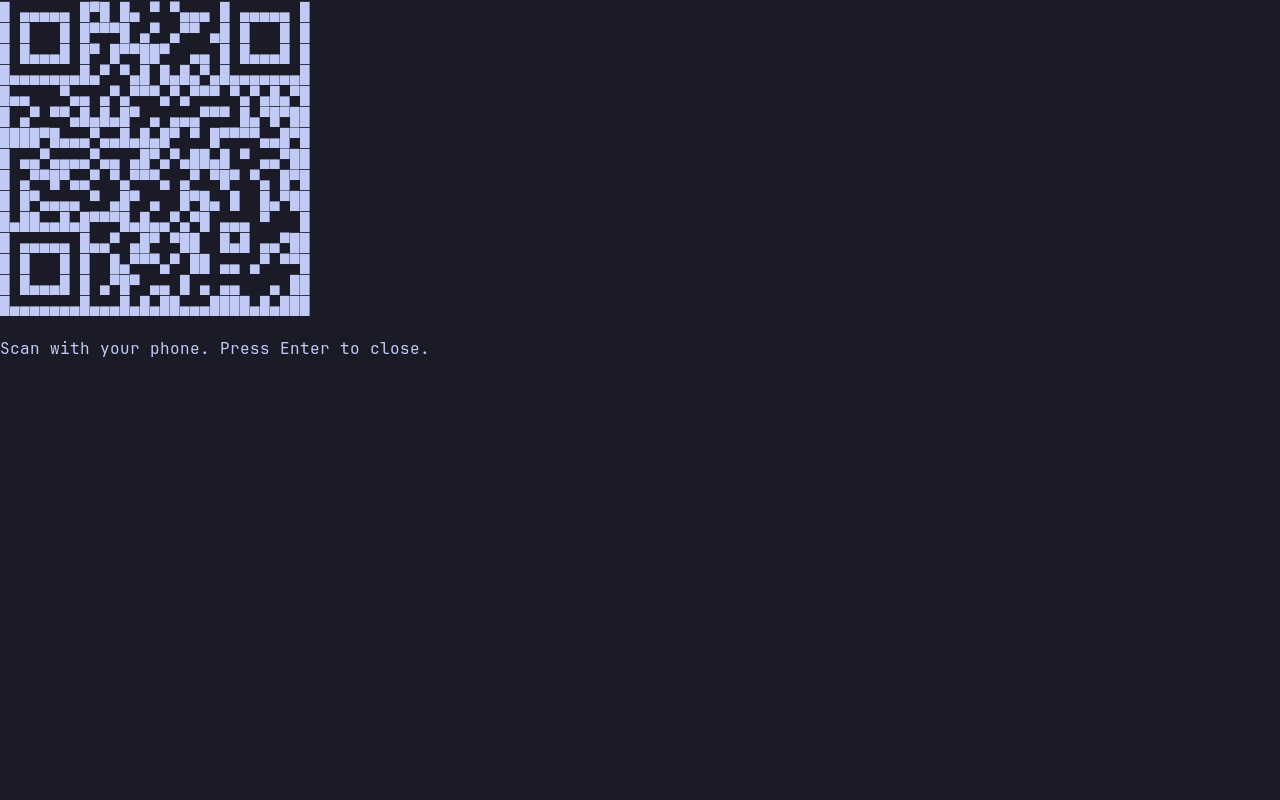
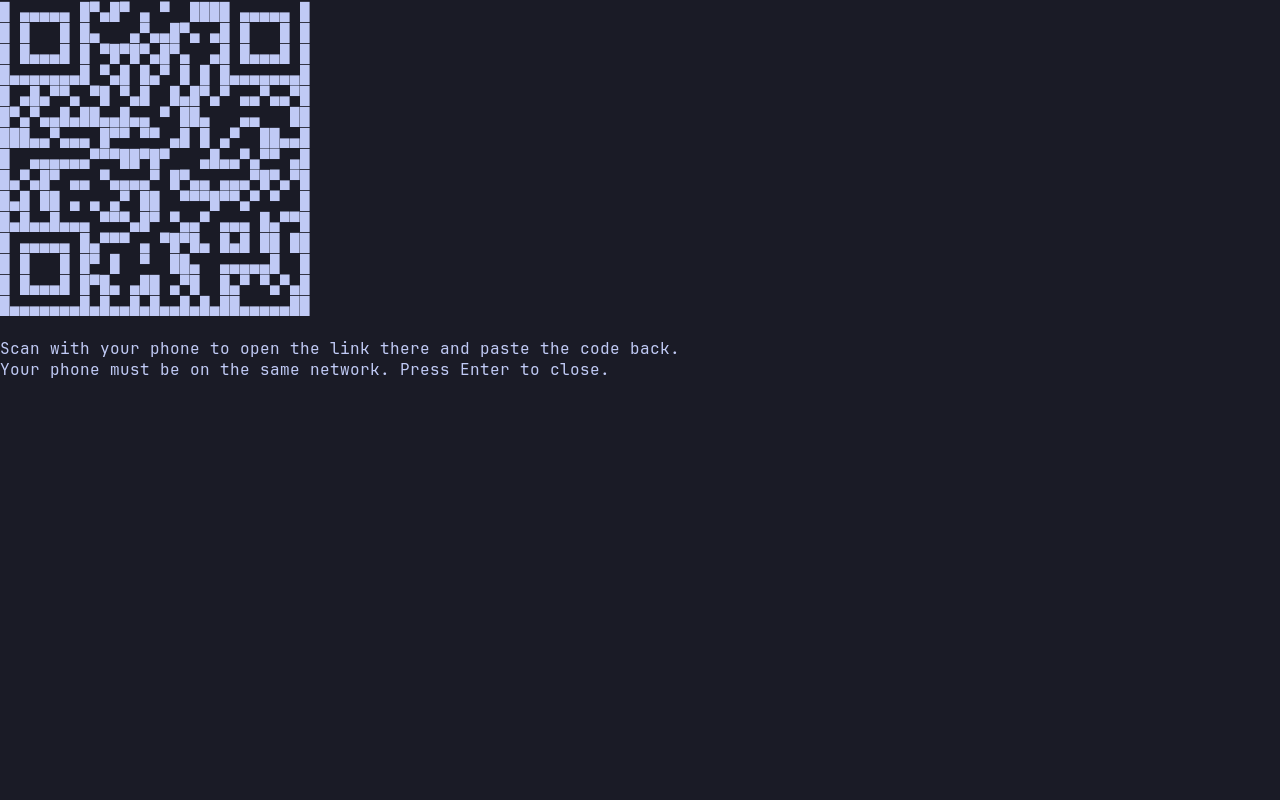
Hand sign-in links to the phone and take codes back
Claude Code's sign-in link is too long for a QR code on a small screen,
and the code it wants back is too long to type. C-Space u now shows a
QR code for a one-time page on the local network that opens the link on
the phone and takes the code back, typing it at the prompt without
pressing Enter. omarchy-rescue-login pops it up on its own as soon as
the agent prints its link.

Changed region(s): [[0.0, 0.0, 0.4688, 0.4688], [0.4688, 0.4062, 0.5, 0.4375]]

diff --git a/README.md b/README.md
@@ -39,23 +39,24 @@ install the way it mounts itself, from its own fstab:
 ### Signing in without a browser
 
 Every agent signs in from the terminal by printing a link to open on another
-device:
+device, and Claude Code and OpenCode then want a long code pasted back.
+`omarchy-rescue-login` handles both: as soon as the agent prints its link, a
+QR code pops up. Scan it with your phone and you get a page that opens the
+sign-in link and has a box to paste the code into. Send it, and the code is
+typed into the console; press Enter there to use it.
 
-- `codex login --device-auth` shows a link and a short code; open it on your
-  phone and you're done.
-- `claude auth login` and `opencode auth login` also want a code pasted back.
+The page lives on this machine, on the local network, behind a random
+address; it serves one paste and stops. Pasted text never includes a newline,
+so nothing runs until you press Enter. **C-Space u** does the same for any
+link on screen.
 
-Two ways to get links onto your phone:
+`omarchy-rescue-share` goes further and serves the whole tmux session to your
+phone's browser with ttyd. It's a root shell behind a random address, so stop
+it with `omarchy-rescue-share stop` when done.
 
-- **C-Space u** shows the last link on screen as a QR code.
-- **`omarchy-rescue-share`** serves this same tmux session to your phone's
-  browser with ttyd and shows a QR code for it. Tap the sign-in link there and
-  paste the code straight back. The address carries a random token and it's a
-  root shell, so stop it with `omarchy-rescue-share stop` when done.
-
-| Codex's device sign-in | C-Space u |
+| The QR code pops up by itself | The page it opens on your phone |
 | --- | --- |
-| ![Codex printing its device sign-in link and code](docs/screenshots/sign-in.png) | ![The sign-in link as a QR code](docs/screenshots/sign-in-qr.png) |
+| ![A QR code for handing the sign-in link to a phone](docs/screenshots/sign-in-qr.png) | ![The phone page: open the link, paste the code back](docs/screenshots/sign-in-phone.png) |
 
 | `omarchy-rescue-share` | `omarchy-rescue` |
 | --- | --- |
